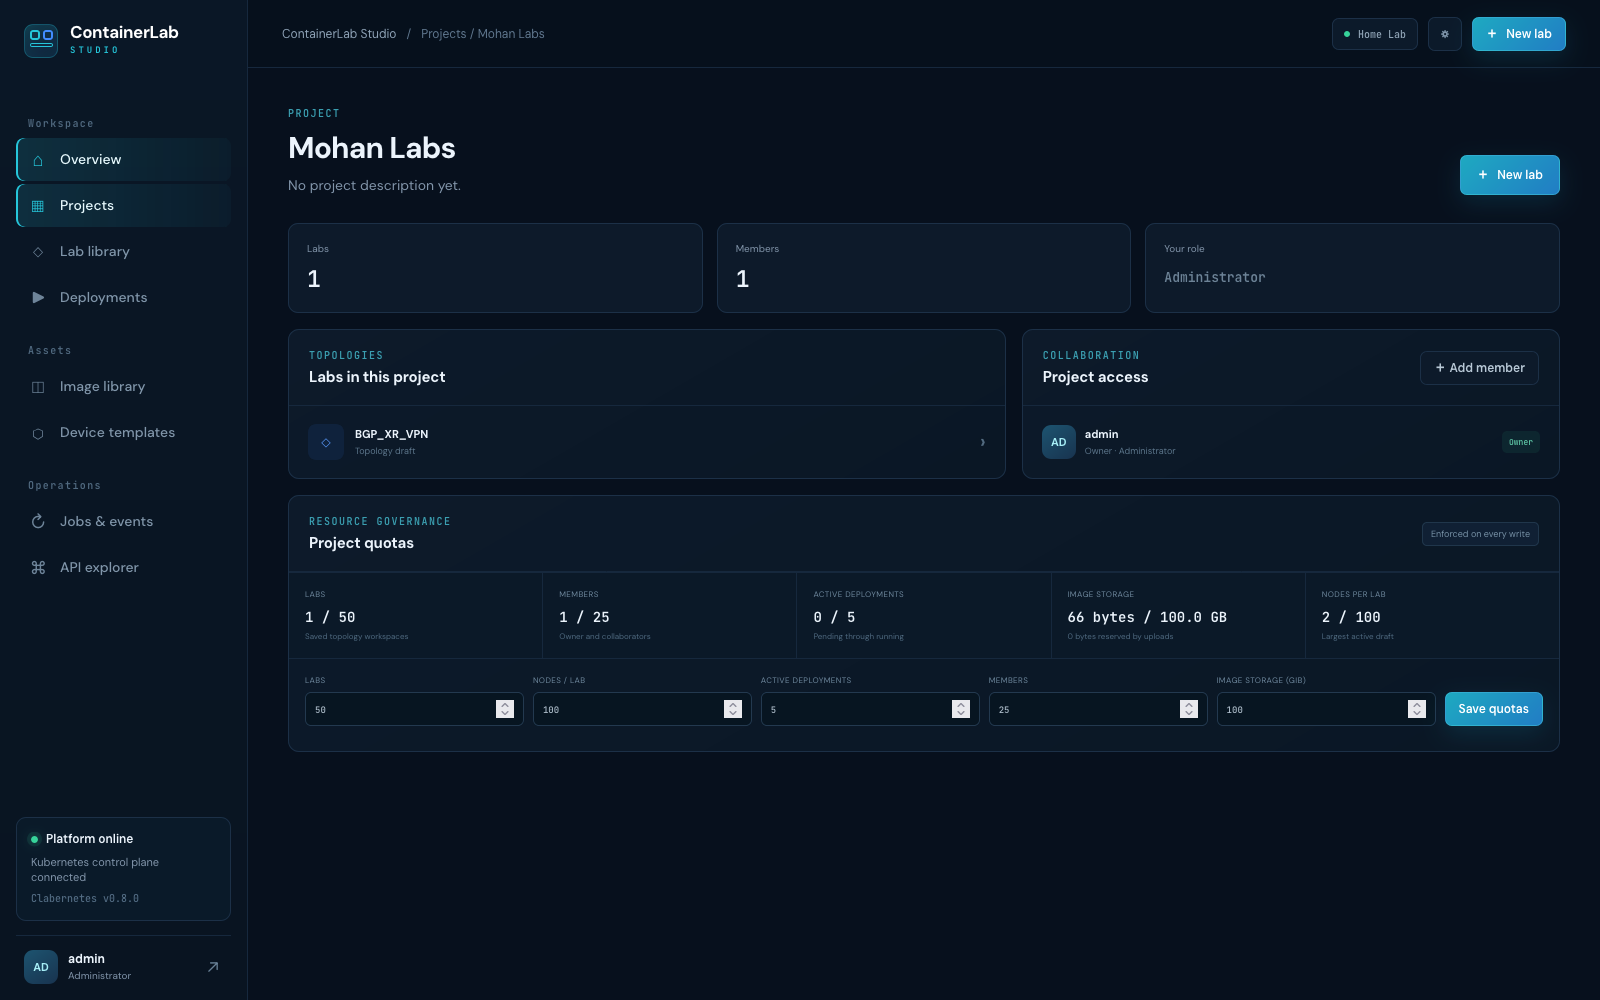
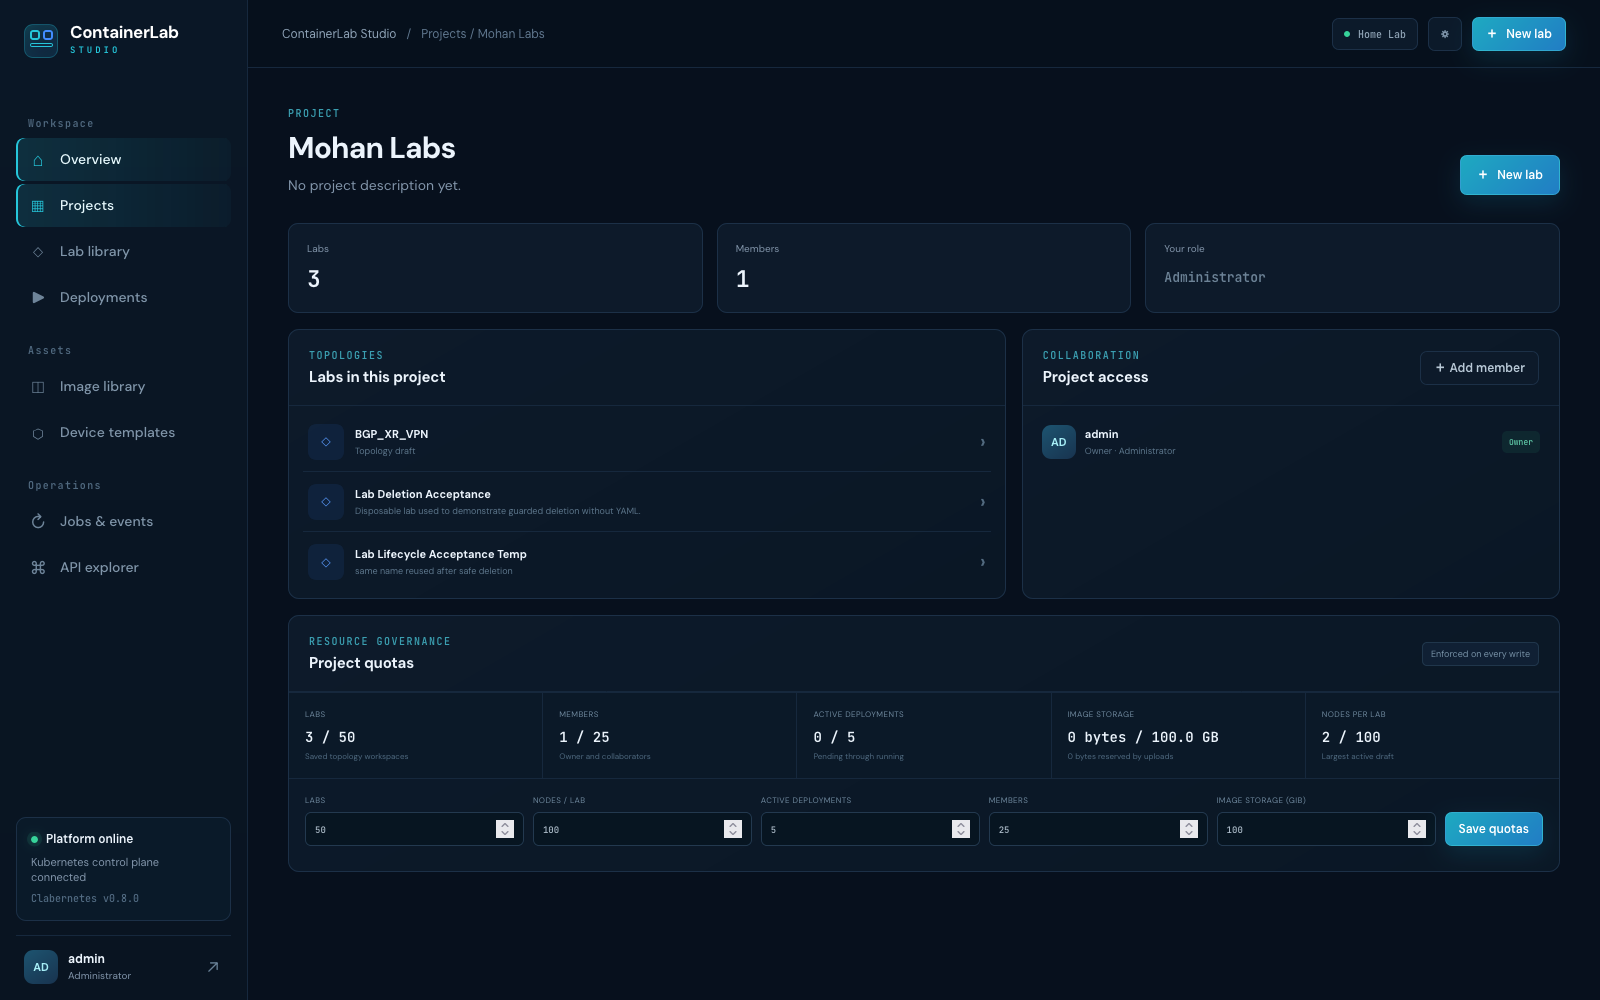
docs: add Firefox lab lifecycle capture

diff --git a/IMPLEMENTATION_STATUS.md b/IMPLEMENTATION_STATUS.md
@@ -34,7 +34,8 @@
 - Audited configuration-version comparison and safe restore with same-device validation, bounded no-store unified diffs, explicit impact preview, stale-draft protection, idempotent replay, newly encrypted draft configuration versions, and immutable/running revision preservation.
 - GUI-native appliance traceroute with ready-device authorization, literal IP validation, bounded hop/probe/timeout controls, idempotent audited worker execution, and capped output from the selected nested appliance.
 - Guarded image artifact deletion with server-counted publication/build/revision/job references, explicit impact preview, optimistic checksum confirmation, idempotent audited soft deletion, bounded owned-file removal, quota release, hidden deleted records, and checksum reuse.
-- A 31-screen, read-only Firefox training capture catalog covering projects, labs, visual topology design, verified backup/restore, image onboarding/deletion, deployment/device lifecycle, safe redeploy preview, runtime logs, link controls, ping/traceroute diagnostics, packet capture, console, configuration history/compare/restore, templates, jobs, security, and API discovery.
+- Native lab metadata editing and guarded lab deletion with immutable project ownership, active-runtime/job refusal, optimistic concurrency, idempotent audited soft deletion, quota release, hidden deleted workspaces, preserved revision/deployment history, and safe name reuse.
+- A 32-screen, read-only Firefox training capture catalog covering projects, lab lifecycle, visual topology design, verified backup/restore, image onboarding/deletion, deployment/device lifecycle, safe redeploy preview, runtime logs, link controls, ping/traceroute diagnostics, packet capture, console, configuration history/compare/restore, templates, jobs, security, and API discovery.
 
 ## Acceptance results
 
@@ -80,8 +81,9 @@
 | 38 | Configuration compare and safe restore | PASS | Firewall collected versions 1 and 2 were compared through the authenticated no-store API; version 2 then produced editable revision 2 under idempotency and draft-concurrency protection while the original immutable deployment remained running with 3/3 devices ready and an unchanged revision. |
 | 39 | Appliance traceroute | PASS | The authenticated product operation executed bounded traceroute inside live FRR router r1 toward 10.2.2.2 and returned the real one-hop path (`10.2.2.2`, 0.018 ms); the same completed workflow was captured in Firefox with explicit probe, timeout, and hop bounds. |
 | 40 | Guarded image deletion | PASS | A published firewall artifact was correctly protected by 1 publication, 1 build, and 2 lab revisions; a disposable 66-byte malformed upload showed zero references, was previewed in Firefox, removed its owned PVC file, released exactly 66 quota bytes, disappeared from the API/UI, returned the same idempotent replay result, and retained audit provenance. |
+| 41 | Guarded lab lifecycle | PASS | A running production lab was protected by its active deployment; a disposable lab was created and edited through the authenticated product API, previewed with zero blockers, soft-deleted under optimistic and idempotency controls, hidden from API and workspace with history retained, returned quota to its baseline, and allowed the same name to be reused. Firefox captured the native confirmation workflow. |
 
-Automated tests: **105 passed**. Django checks and migration drift checks: **pass**. React TypeScript/Vite production build: **pass**. Firefox training capture: **31 live screens passed**. Helm lint/render: **pass**. Native runtime ping: **3 transmitted, 3 received, 0% loss, 0.445 ms average RTT**. Live appliance traceroute: **1 verified hop to 10.2.2.2**. Bidirectional 120 ms link condition: **240.563 ms average RTT**. Disabled link: **100% loss**. Restored qdiscs: **native `noqueue` on both endpoints**.
+Automated tests: **109 passed**. Django checks and migration drift checks: **pass**. React TypeScript/Vite production build: **pass**. Firefox training catalog: **32 live screens verified**. Helm lint/render: **pass**. Native runtime ping: **3 transmitted, 3 received, 0% loss, 0.445 ms average RTT**. Live appliance traceroute: **1 verified hop to 10.2.2.2**. Bidirectional 120 ms link condition: **240.563 ms average RTT**. Disabled link: **100% loss**. Restored qdiscs: **native `noqueue` on both endpoints**.
 
 ## Known limitations
 

diff --git a/training/GALLERY.md b/training/GALLERY.md
@@ -187,3 +187,9 @@ The operator selects a ready appliance, literal IPv4/IPv6 destination, probes pe
 ![Guarded image deletion](31-guarded-image-deletion.png)
 
 Before deletion, the server counts publications, build records, lab revisions, and active jobs. Only an unreferenced artifact may be confirmed; Studio then removes its owned quarantine file, releases project quota, hides the artifact from image/topology libraries, and retains upload, operation, and audit provenance.
+
+## 32 — Guarded lab deletion
+
+![Guarded lab deletion](32-guarded-lab-deletion.png)
+
+The operator reviews revision and deployment history plus active runtime and job blockers before confirming. A safe deletion removes only the lab-library entry, releases one project lab quota unit, preserves immutable operational history, and allows the lab name to be reused without exposing YAML or cluster commands.
